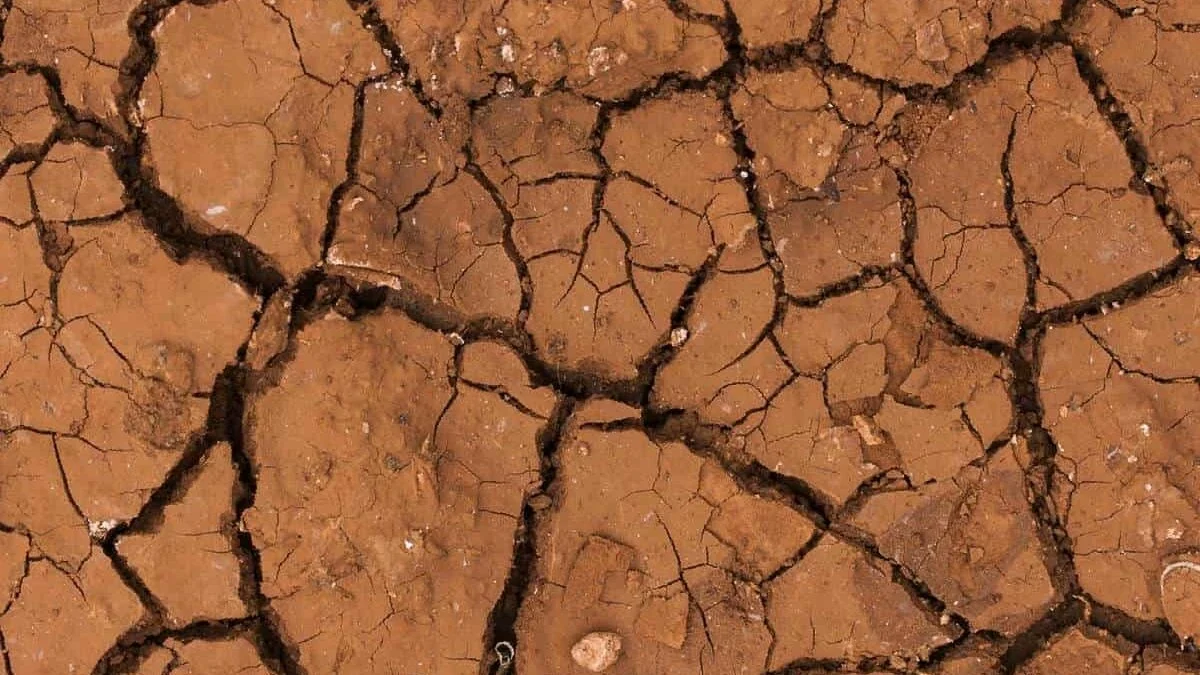
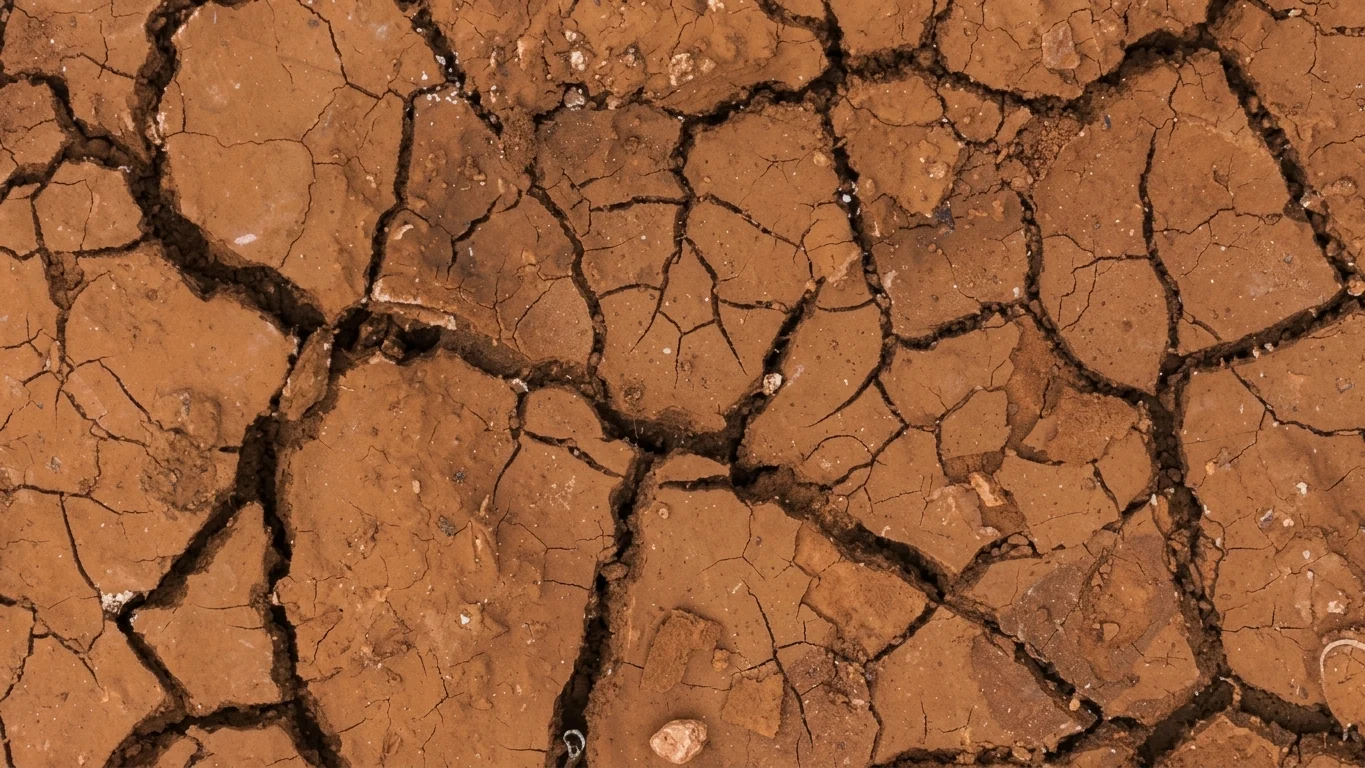
Il lago: foto delle argille in versione migliorata (piu nitida, senza artefatti)
Claude-Session: https://claude.ai/code/session_0158YTuXUDsj15VT1c2xNVLb

diff --git a/en/territorio.html b/en/territorio.html
@@ -173,7 +173,7 @@
 
   <section class="capitolo capitolo--salvia" aria-labelledby="titolo-argille">
     <div class="contenitore due">
-      <figure style="margin:0"><div class="foto-alta svela"><img src="/img/argille-conza.webp" alt="Clay soil cracked by the sun in the fields of Conza della Campania" width="1200" height="675" loading="lazy"></div></figure>
+      <figure style="margin:0"><div class="foto-alta svela"><img src="/img/argille-conza.webp" alt="Clay soil cracked by the sun in the fields of Conza della Campania" width="1365" height="768" loading="lazy"></div></figure>
       <div class="testo-lungo">
         <p class="etichetta" data-rivela>The soil</p>
         <h2 class="titolo titolo--medio" id="titolo-argille" data-rivela><span class="riga" style="--i:0"><span>The clay</span></span><span class="riga" style="--i:1"><span>you can taste</span></span><span class="riga" style="--i:2"><span>in the honey</span></span></h2>

diff --git a/territorio.html b/territorio.html
@@ -148,7 +148,7 @@
 
   <section class="capitolo capitolo--salvia" aria-labelledby="titolo-argille">
     <div class="contenitore due">
-      <figure style="margin:0"><div class="foto-alta svela"><img src="img/argille-conza.webp" alt="Terra argillosa spaccata dal sole sui campi di Conza della Campania" width="1200" height="675" loading="lazy"></div></figure>
+      <figure style="margin:0"><div class="foto-alta svela"><img src="img/argille-conza.webp" alt="Terra argillosa spaccata dal sole sui campi di Conza della Campania" width="1365" height="768" loading="lazy"></div></figure>
       <div class="testo-lungo">
         <p class="etichetta" data-rivela>Il suolo</p>
         <h2 class="titolo titolo--medio" id="titolo-argille" data-rivela><span class="riga" style="--i:0"><span>Le argille</span></span><span class="riga" style="--i:1"><span>che si sentono</span></span><span class="riga" style="--i:2"><span>nel miele</span></span></h2>
